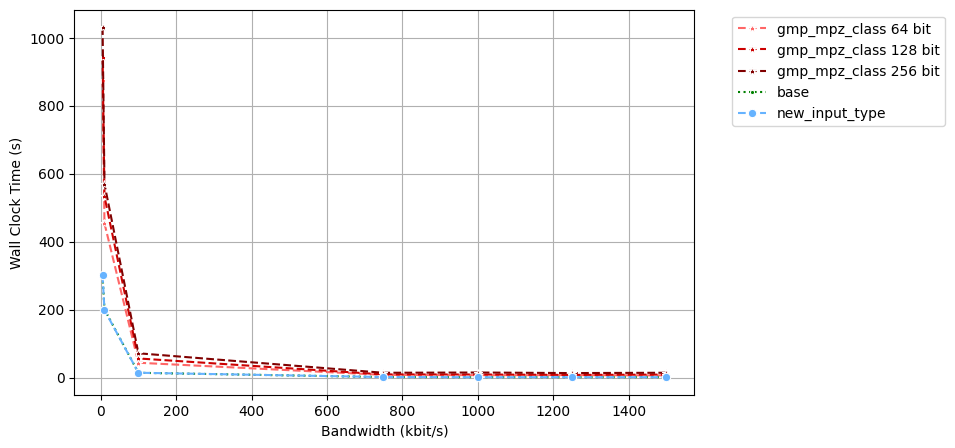
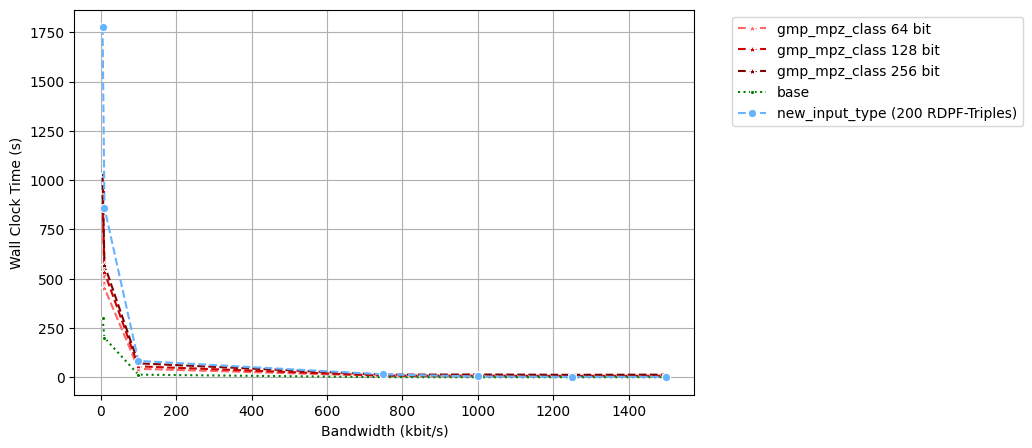
bandwidth time aktualisiert

diff --git a/plots/code/preproc/bandwidth_preproc.py b/plots/code/preproc/bandwidth_preproc.py
@@ -41,8 +41,8 @@ df_base = pd.DataFrame({
 
 df_new_input_type = pd.DataFrame({
     "x":[x1,x2,x3,x4,x5,x6,x7],
-    "y":[0.912,1.012,0.874,1.382,14.021,198.539,301.211],
-    "Approach":"new_input_type"
+    "y":[2.912,3.012,4.874,15.382,83.788,859.363,1775.243],
+    "Approach":"new_input_type (200 RDPF-Triples)"
 })
 
 plt.figure(figsize=(8,5))

diff --git a/plots/code/preproc/lamport_clock_preproc.py b/plots/code/preproc/lamport_clock_preproc.py
@@ -14,7 +14,7 @@ x5 = 20
 df_new_input_type = pd.DataFrame({
     "x":[x1,x2,x3,x4,x5],
     "y":[8,12,22,32,42],
-    "Approach":"new_input_type"
+    "Approach":"new_input_type (200 RDPF-Triples)"
 })
 
 df_gmp_mpz_class = pd.DataFrame({
